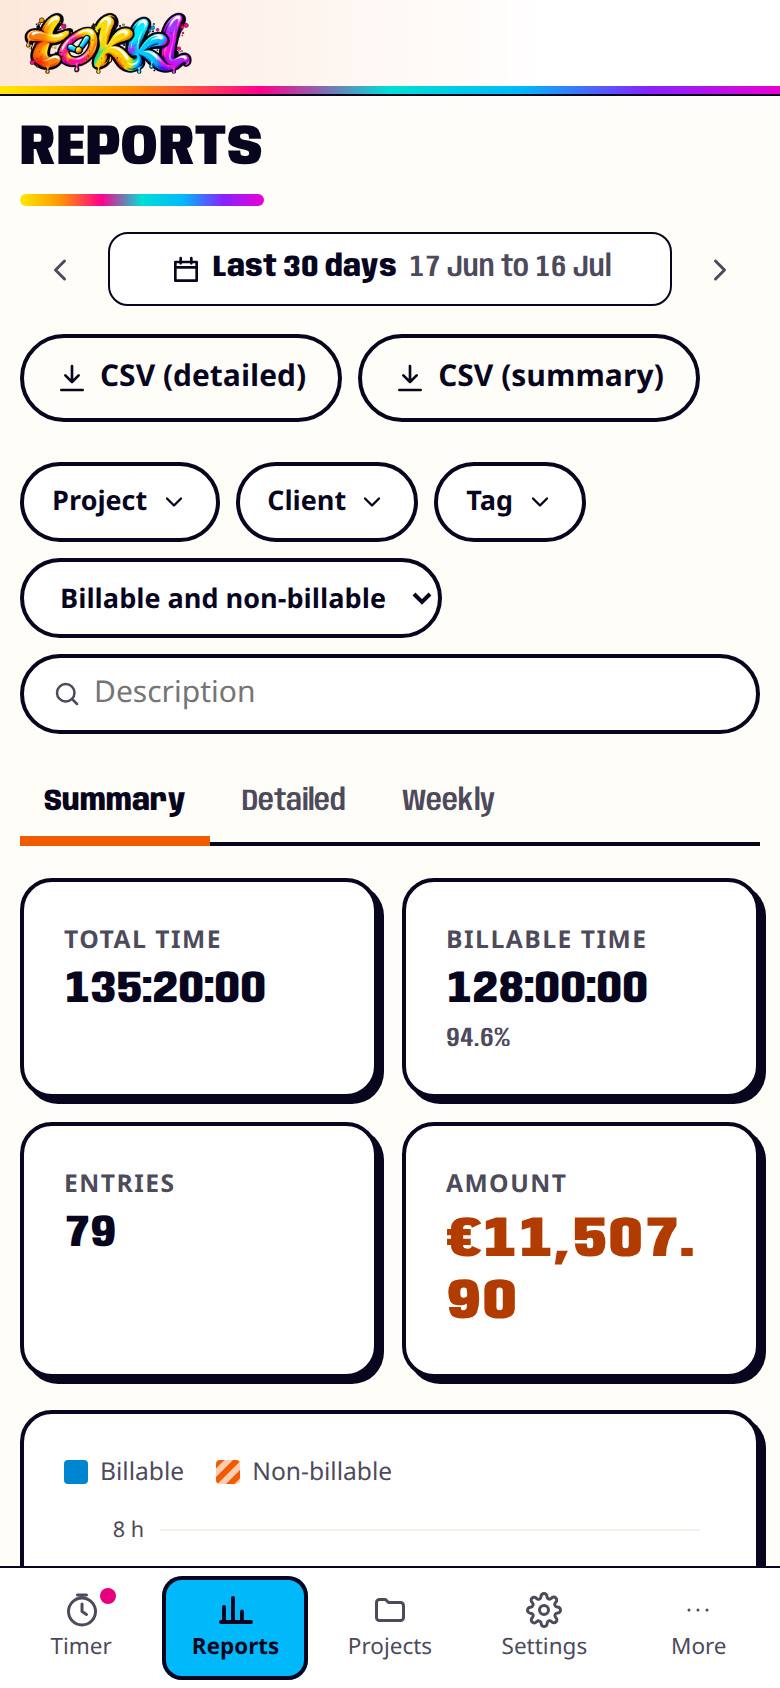
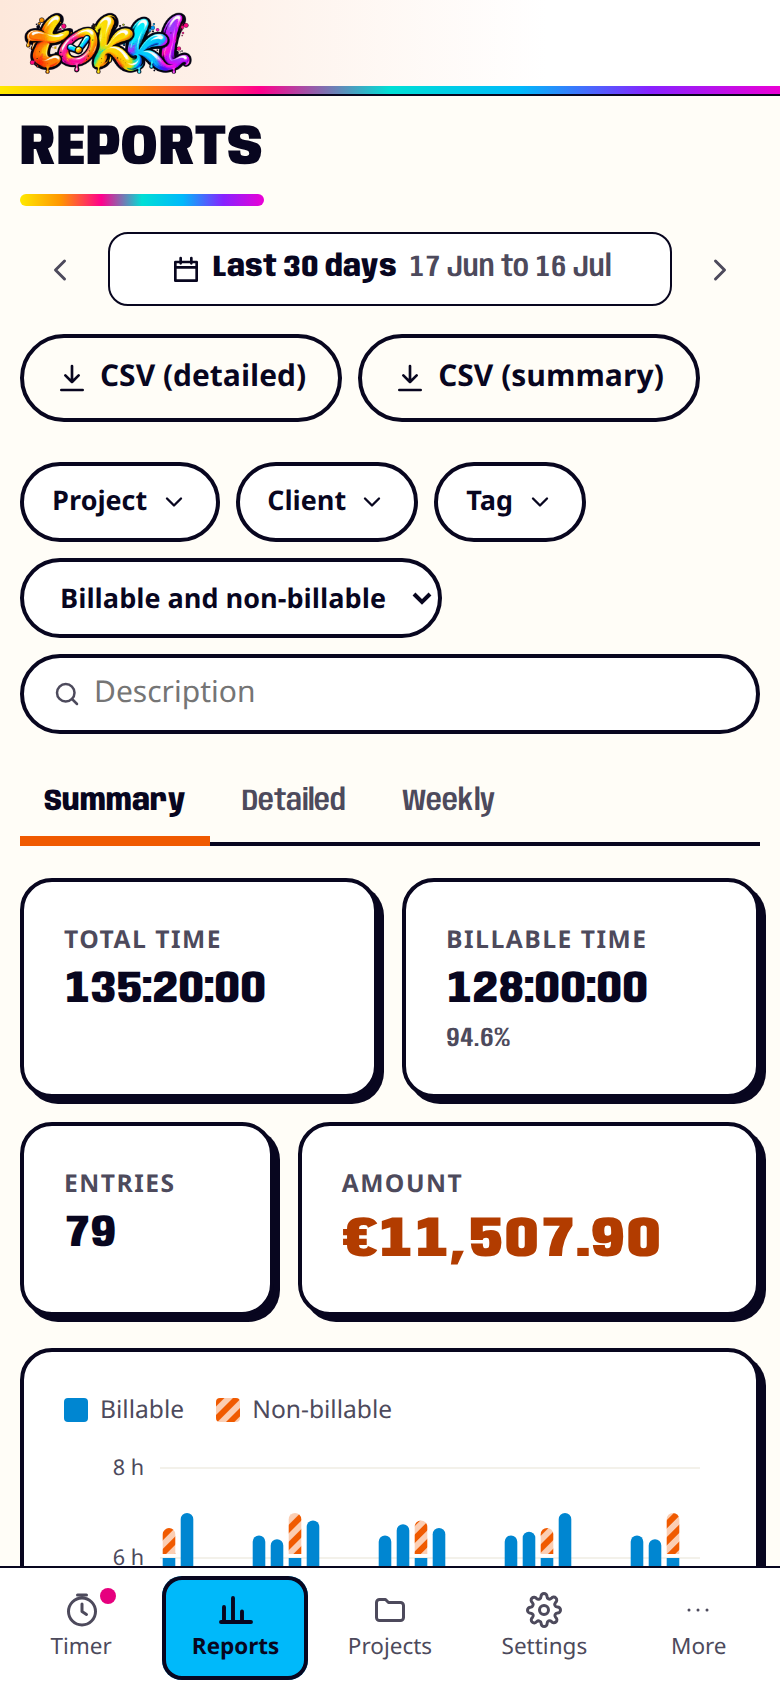
fix(reports): keep the Amount total whole on phones
The Amount tile split a figure such as 11,507.90 across two lines, because the totals grid gave
every tile half the phone width and dd allowed a break between any two characters.

At 760px and below the totals wrap as a row. Entries and Amount size to their content, so they
share a row when they fit. When they do not, Amount takes its own row, and two currencies wrap
between figures. Each figure is nowrap. A lone Entries tile, when there is no amount, now fills
its row.

The phone baselines of the summary report and docs/screenshots/mobile-reports.png are refreshed.

Refs: TT-0308

Changed region(s): [[0.0, 0.6469, 0.9846, 0.9242], [0.8, 0.8934, 0.8923, 0.9242], [0.6462, 0.8934, 0.7385, 0.9242]]

diff --git a/packages/web/src/pages/reports/reports.css b/packages/web/src/pages/reports/reports.css
@@ -233,7 +233,13 @@
   .report-filters .search-box { flex: 1 1 160px; }
   .report-filters .search-box input { width: 100%; }
   .report-totals dd { font-size: var(--text-xl); }
-  .report-amount { font-size: var(--text-2xl); }
+  .report-amount { font-size: var(--text-2xl); white-space: nowrap; overflow-wrap: normal; }
+  /* The tiles wrap as a row instead of a grid, so the Amount tile can be as wide as its figures. Entries
+     and Amount size to their content and share a row when both fit. Otherwise Amount takes a row of its
+     own, and several currencies wrap between figures, never inside one. */
+  .report-totals { display: flex; flex-wrap: wrap; }
+  .report-totals > .card { flex: 1 1 160px; }
+  .report-totals > .report-totals-entries, .report-totals > .report-totals-amount { flex-basis: auto; }
   .report-tab { padding: 8px 12px 6px; }
   .breakdown-table td:first-child { width: auto; }
   .share { min-width: 110px; gap: 6px; }

diff --git a/packages/web/src/pages/reports/SummaryTab.tsx b/packages/web/src/pages/reports/SummaryTab.tsx
@@ -22,12 +22,12 @@ function Totals({ report, settings }: { report: Report; settings: Settings }) {
           {totals.seconds > 0 ? <span className="muted report-totals-share"> {formatPercent(percent(totals.billable_seconds, totals.seconds))}</span> : null}
         </dd>
       </div>
-      <div className="card">
+      <div className="card report-totals-entries">
         <dt>Entries</dt>
         <dd>{totals.entry_count.toLocaleString()}</dd>
       </div>
       {totals.amounts.length ? (
-        <div className="card">
+        <div className="card report-totals-amount">
           <dt>Amount</dt>
           <dd>
             {totals.amounts.map((amount) => (
